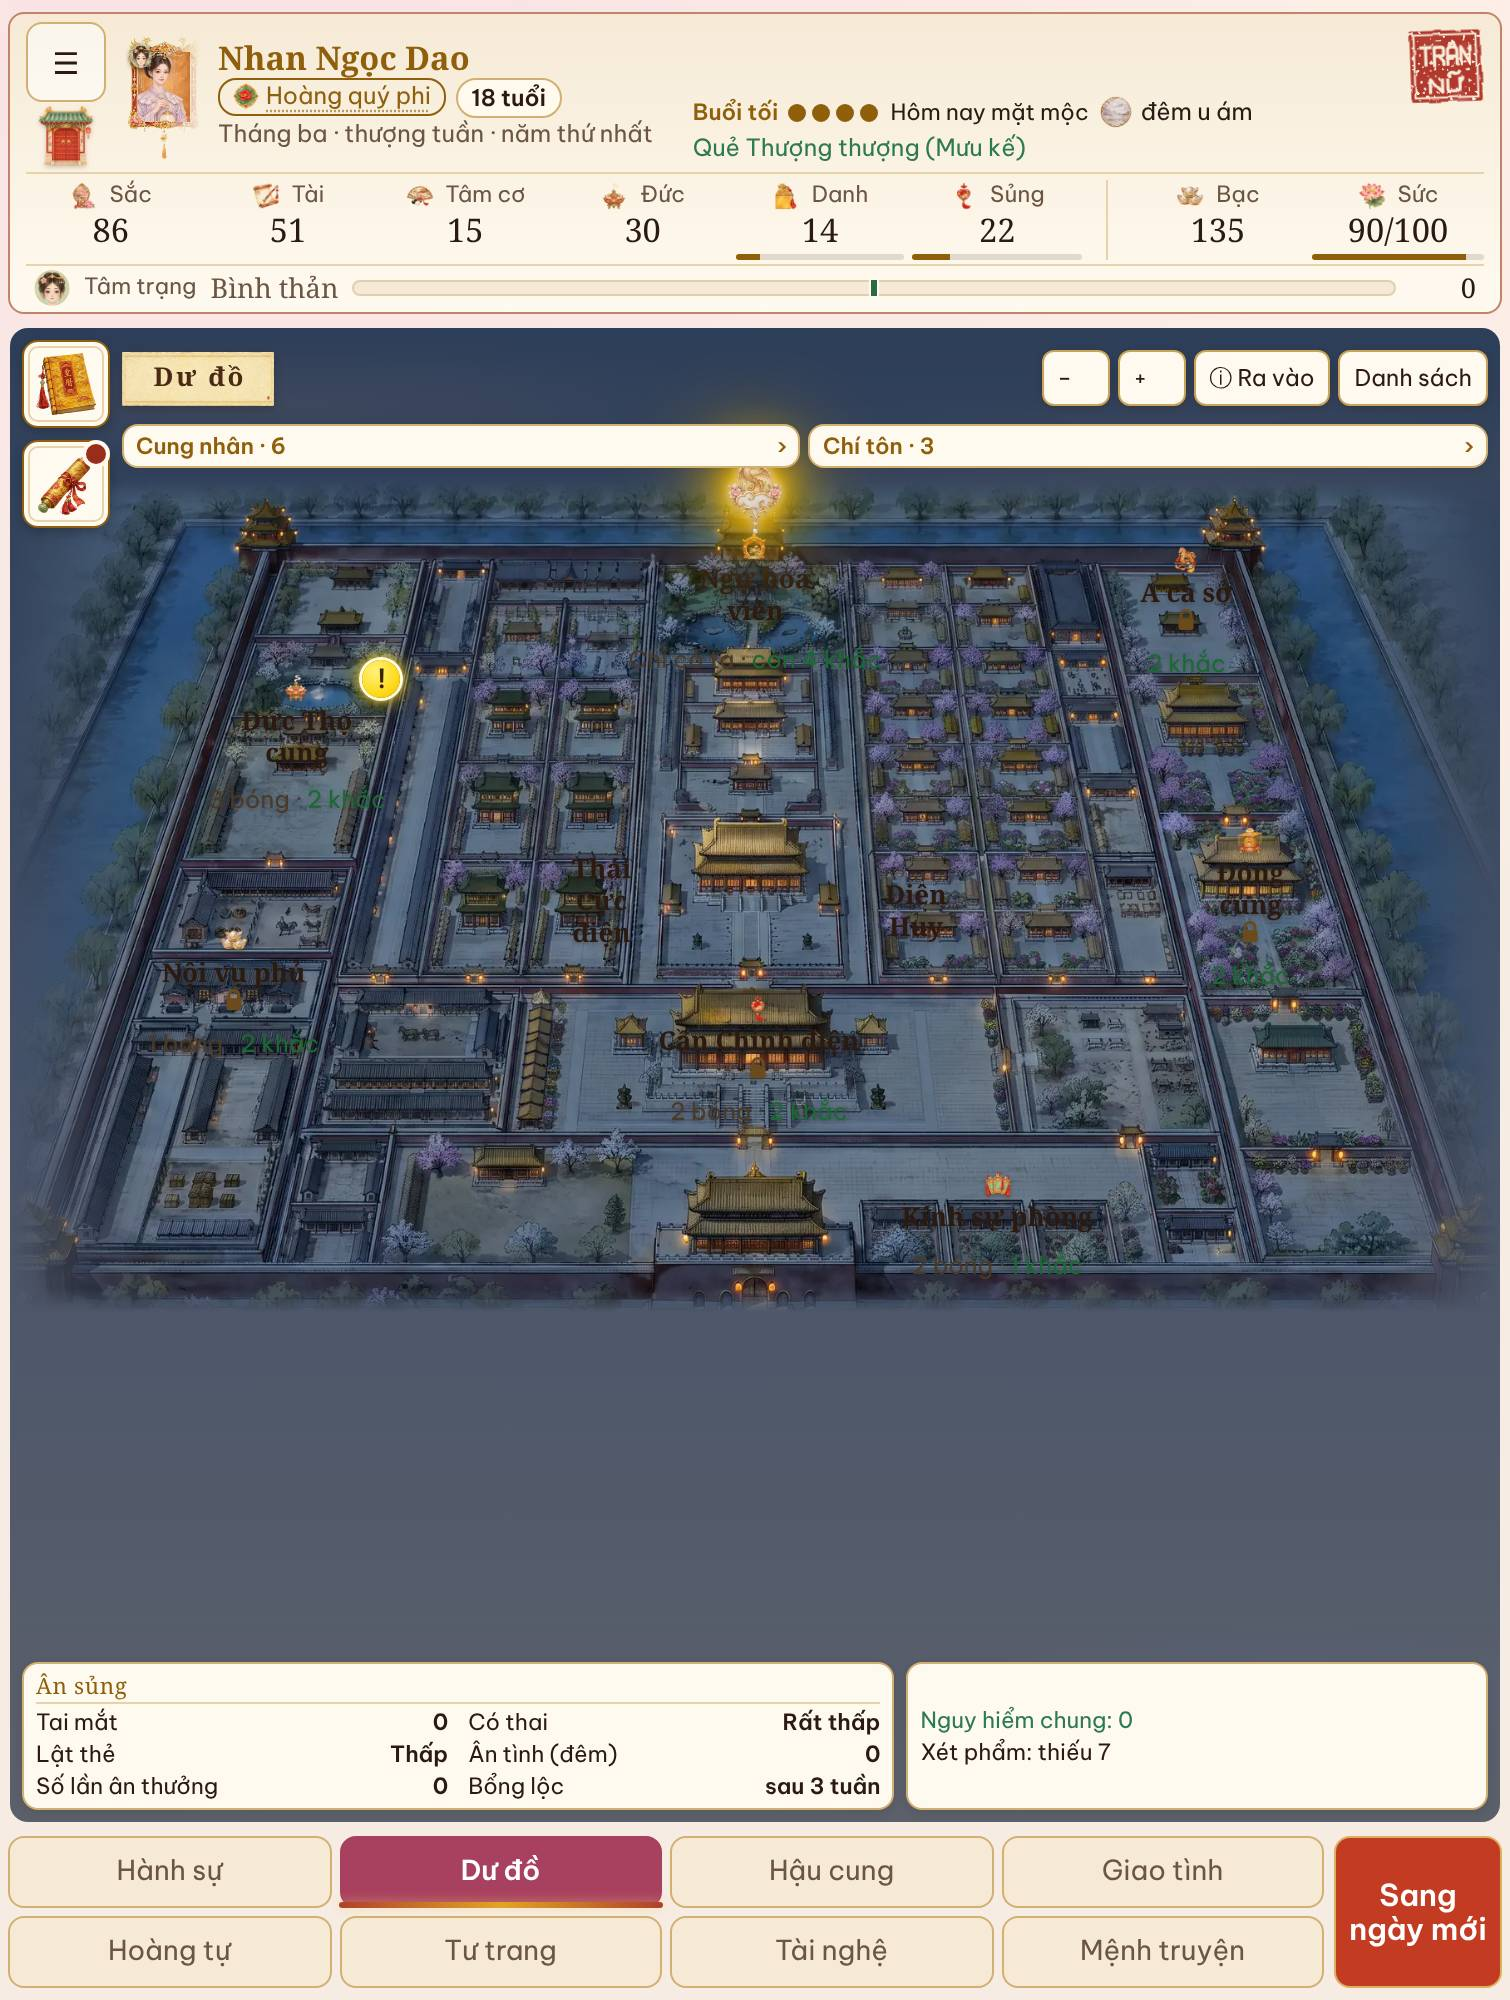
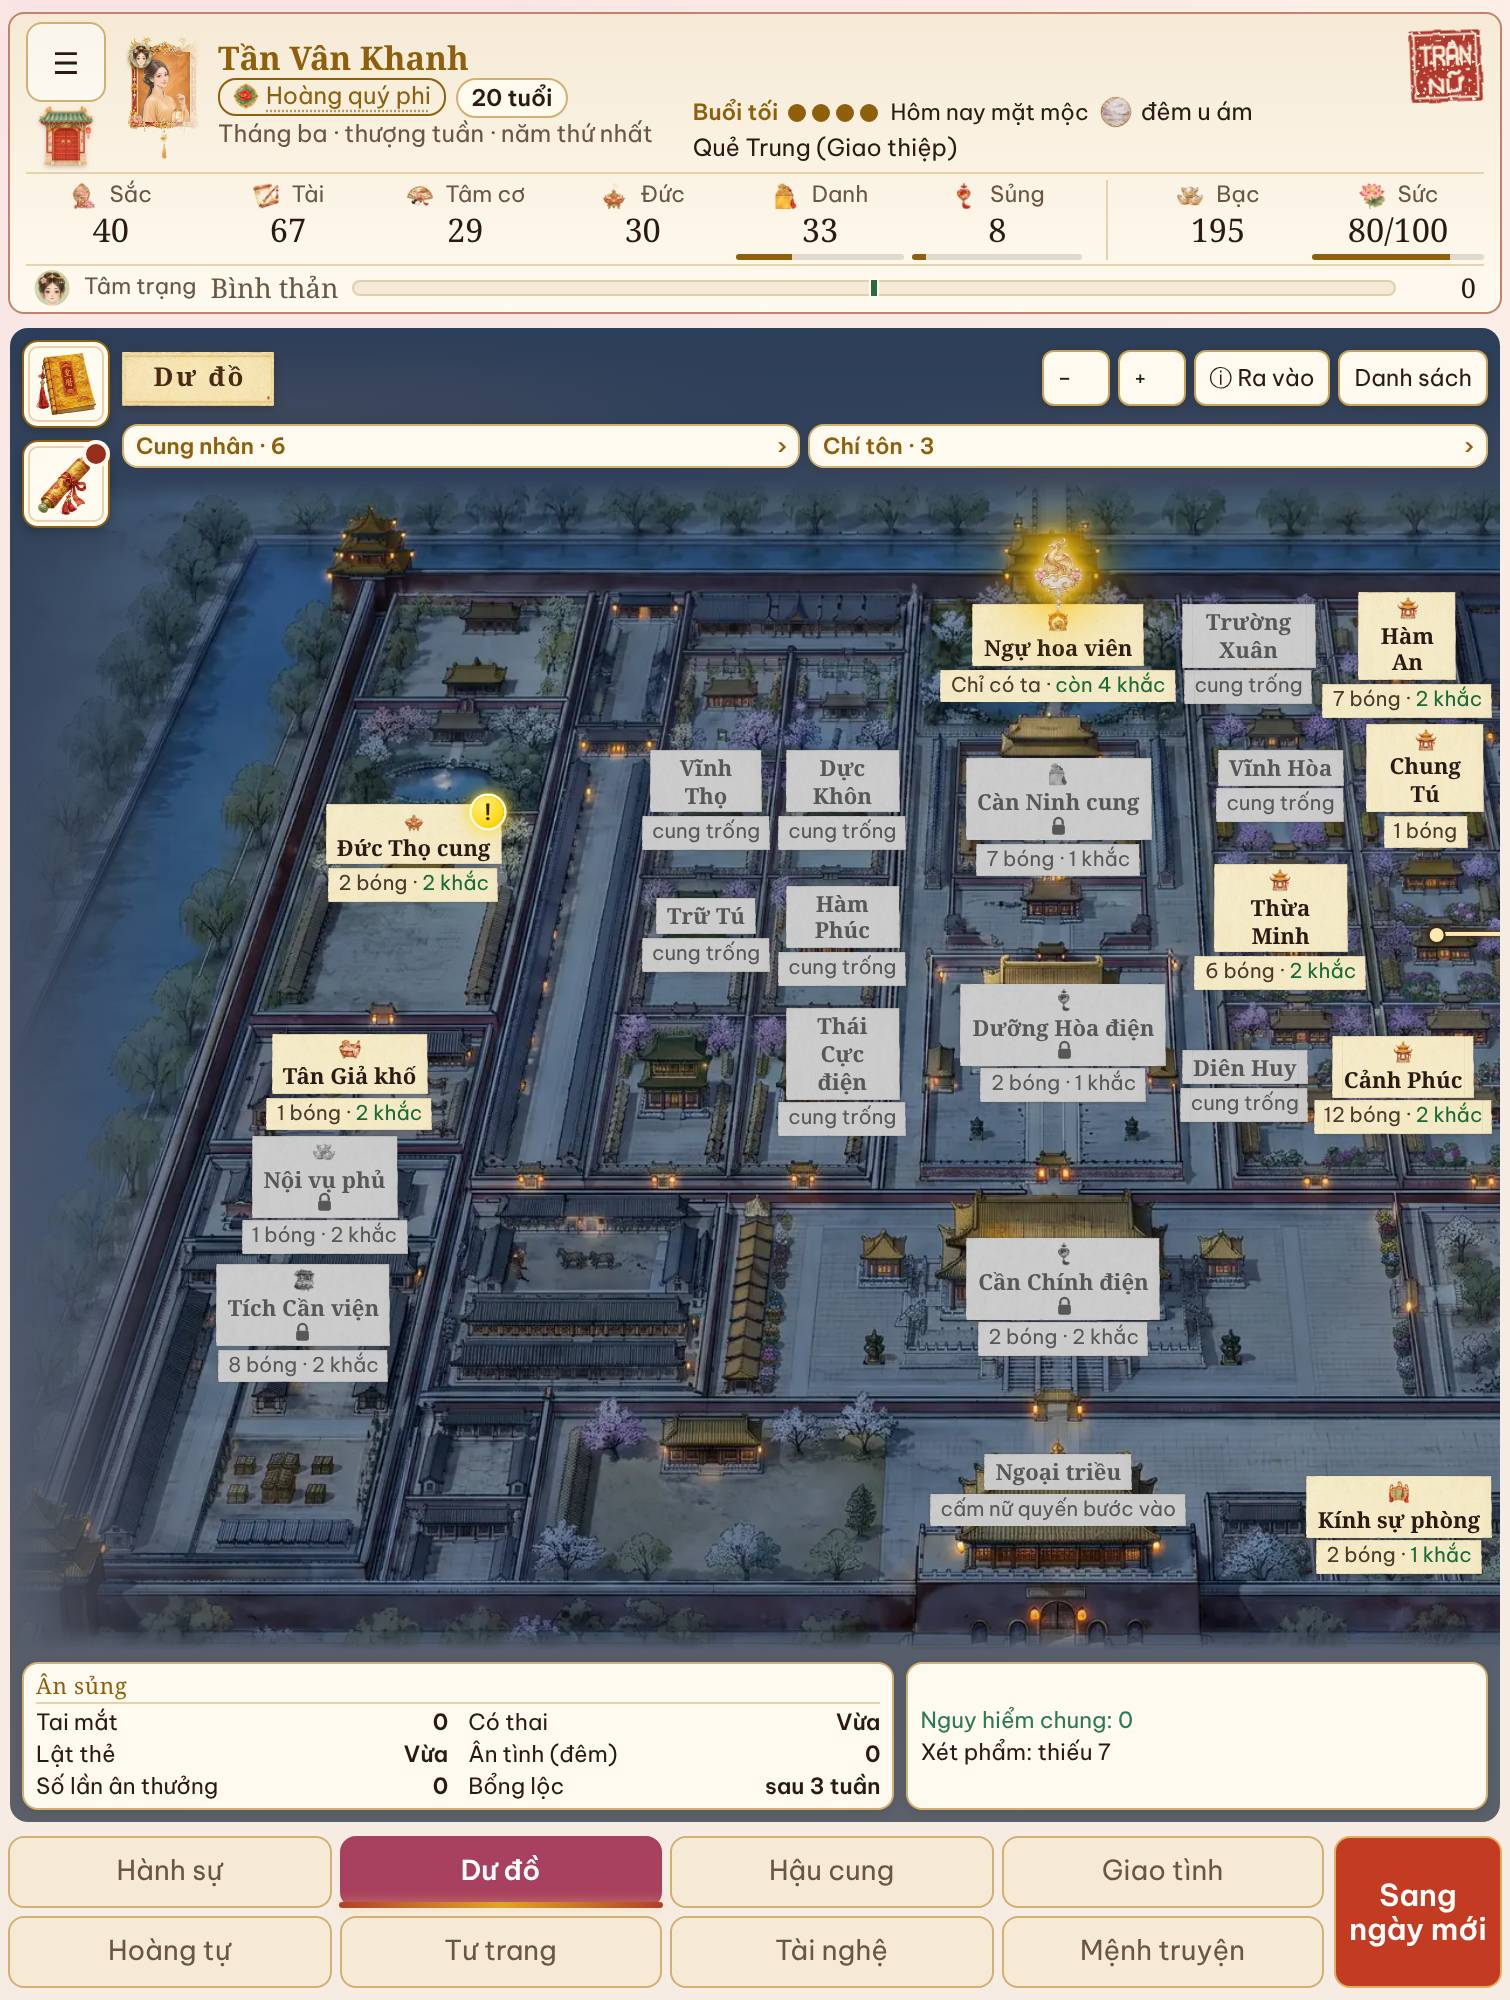
stage-rightcol r2 report

diff --git a/dev/handover/reports/stage-rightcol.md b/dev/handover/reports/stage-rightcol.md
@@ -17,3 +17,7 @@ Open list shows "Thiện cảm" label (existing module rewrites "Lòng"). Entry-
 ## r1 (ROOT-55 notes 20:06Z)
 (1) based on live main 13bb8c88 (no merge needed). (2) oldsave-r1 16/16. (3) quickcheck PASS. (4) Dư đồ map column now uses kitGroupFold too (kv1 portrait: two folds side by side in the top row, open list drops over the map; iPad kv2: same column as the stage); k3maid removed (one version); map added to dev/test/stage-rightcol.js: 36/36 PASS (stage home/Ngự hoa viên + map, Fold + iPad, 1/6 servants, closed/Cung nhân/Chí tôn). (5) label = «Thiện cảm» (VANPHONG L55: servant toward her = thiện cảm; the old "Lòng" was only a code name rewritten at runtime) now written directly. Shots +6 (map, open lists), all looked.
 ~97% xong / ~97% chơi được
+
+## r2 (ROOT-55 note 20:26Z: Fold map broken)
+Cause = mine: j38 mapFit measured the bottom margin from the top of every  in #kshR; the new group folds are  in the TOP row, so the map thought the whole column was a bottom row and shrank to the top half (empty band below). Fix: . The frameless night tags were the separate owner bug (map-labels-missing): merged 718c249 + main 9366028. Same-save compare: LIVE-main-fold-h6-map-closed.jpg vs fold-h6-map-closed.jpg (map fills its area again, tags framed). map-labels-scan 755x1000 + 1180x820 day+night: all PASS (cut 0); stage-rightcol 36/36 PASS (one earlier ipad h1 home fail was a mid-reveal figure ghost in the shot, passed on re-run). Branch 25747b2.
+~98% xong / ~98% chơi được
